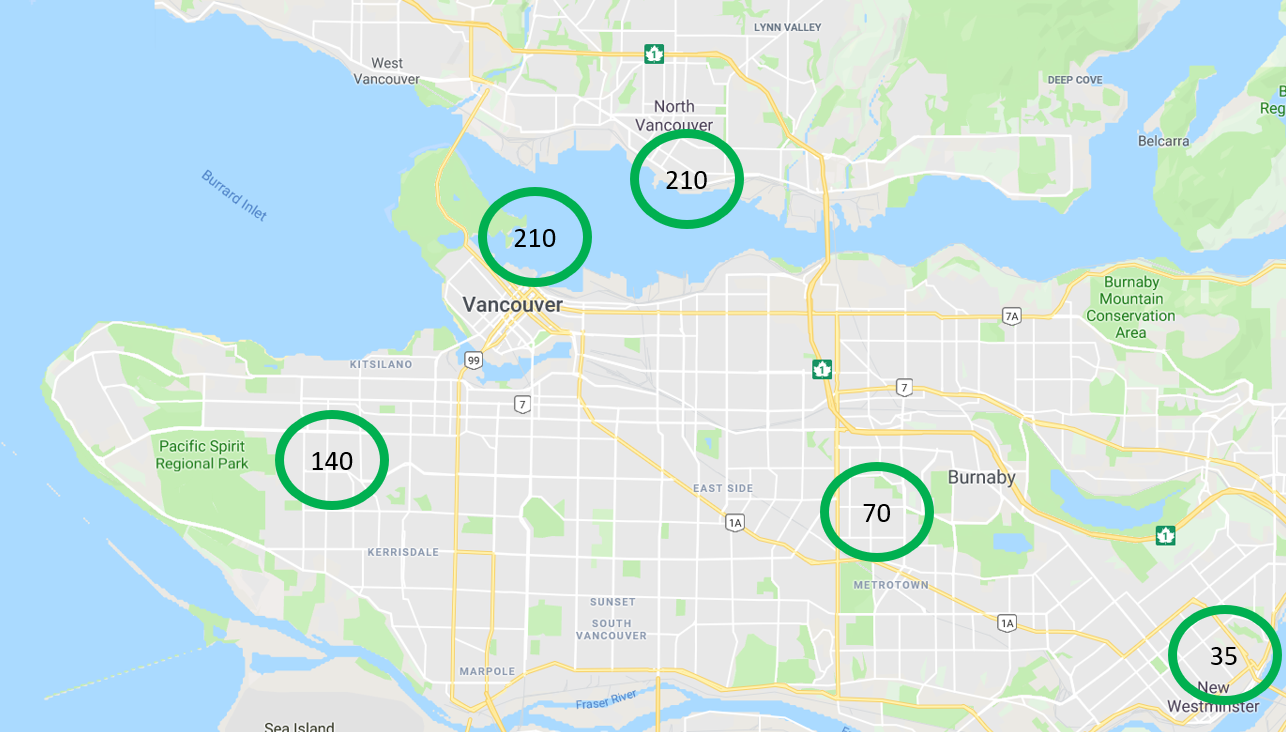
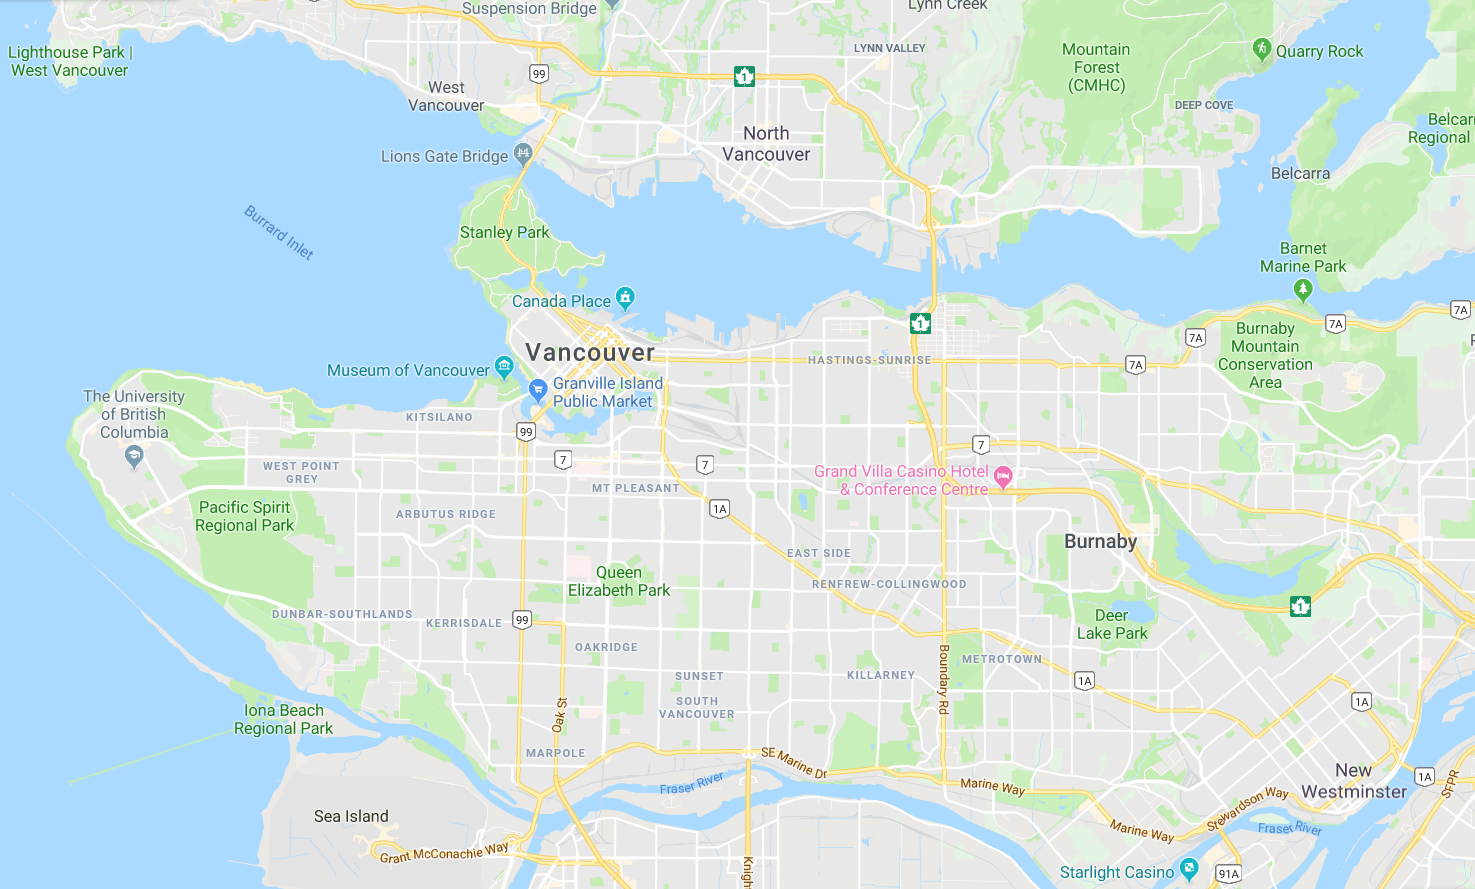
revised_3rd

diff --git a/project/result.html b/project/result.html
@@ -7,6 +7,7 @@
         <style>
             .category {
                 font-weight: bold;
+                position:relative;
             }
             #map {
                 width:100%;
@@ -34,6 +35,76 @@
                 text-align: center;
                 width:100%;
                 height:20px;
+            }
+            #vancouverInfo {
+                position: absolute;
+                top:100px;
+                left:280px;
+                background-color:rgb(248, 239, 110);
+                border-radius: 50%;
+                width:40px;
+                height:40px;
+                text-align: center;
+                line-height: 40px;
+                color:white;
+                border:1px solid black;
+            }
+            #northvancouverInfo {
+                position: absolute;
+                top:70px;
+                left:370px;
+                background-color:rgb(248, 239, 110);
+                border-radius: 50%;
+                width:40px;
+                height:40px;
+                text-align: center;
+                line-height: 40px;
+                color:white;
+                border:1px solid black;
+            }
+            #burnabyInfo {
+                position: absolute;
+                top:240px;
+                left:450px;
+                background-color:rgb(248, 239, 110);
+                border-radius: 50%;
+                width:40px;
+                height:40px;
+                text-align: center;
+                line-height: 40px;
+                color:white;
+                border:1px solid black;
+            }
+            #newwestminsterInfo {
+                position: absolute;
+                top:290px;
+                left:600px;
+                background-color:rgb(248, 239, 110);
+                border-radius: 50%;
+                width:40px;
+                height:40px;
+                text-align: center;
+                line-height: 40px;
+                color:white;
+                border:1px solid black;
+            }
+            #southvancouverInfo {
+                position: absolute;
+                top:180px;
+                left:100px;
+                background-color:rgb(248, 239, 110);
+                border-radius: 50%;
+                width:40px;
+                height:40px;
+                text-align: center;
+                line-height: 40px;
+                color:white;
+                border:1px solid black;
+            }
+            .popover-content, .popover-title{
+                color:black;
+                width:153px;
+                text-align: center;
             }
         </style>
         <meta charset="utf-8">
@@ -64,14 +135,28 @@
                 <div class="row">     
                     <div id="category"class="col-sm-7 text-left">
                         <img id="map" src="pic/result.jpg" class="img-thumbnail" alt="Cinque Terre">
-    
+                        <div id="vancouverInfo">
+                            <a href="#" style="color:black" data-toggle="popover" title="Vancouver Downtown" data-content="Value : $3,600 Collected Bag : 150">150</a>
+                        </div>
+                        <div id="northvancouverInfo">
+                            <a href="#" style="color:black" data-toggle="popover" title="North Vancouver" data-content="Value : $1,680  Collected Bag : 70">70</a>
+                        </div>
+                        <div id="burnabyInfo">
+                            <a href="#" style="color:black" data-toggle="popover" title="Burnaby" data-content="Value : $1,608  Collected Bag : 67">67</a>
+                        </div>
+                        <div id="newwestminsterInfo">
+                            <a href="#" style="color:black" data-toggle="popover" title="New Westminster" data-content="Value : $2,232  Collected Bag : 93">93</a>
+                        </div>
+                        <div id="southvancouverInfo">
+                            <a href="#" style="color:black" data-toggle="popover" title="South Vancouver" data-content="Value : $1,224  Collected Bag : 51">51</a>
+                        </div>
                     </div>
                     <div class="col-sm-4 text-center">
                         <h2>Trash bags collected</h2><br>
-                        <h4>665 trash bag</h4><br>
+                        <h4>431 trash bag</h4><br>
                         
                         <h2>Saved money..</h2><br>
-                        <h4>$500,000</h4><br>
+                        <h4>$10,344</h4><br>
 
                         <h4 style="font-weight: bold">You participated on this campaign <br>3 times!</h4><br>
 
@@ -101,6 +186,7 @@
                         $('#myModal').fadeOut();
                         $('.modal-backdrop').fadeOut();
                     });
+                    $('[data-toggle="popover"]').popover(); 
                 });
             </script>
     </body>
